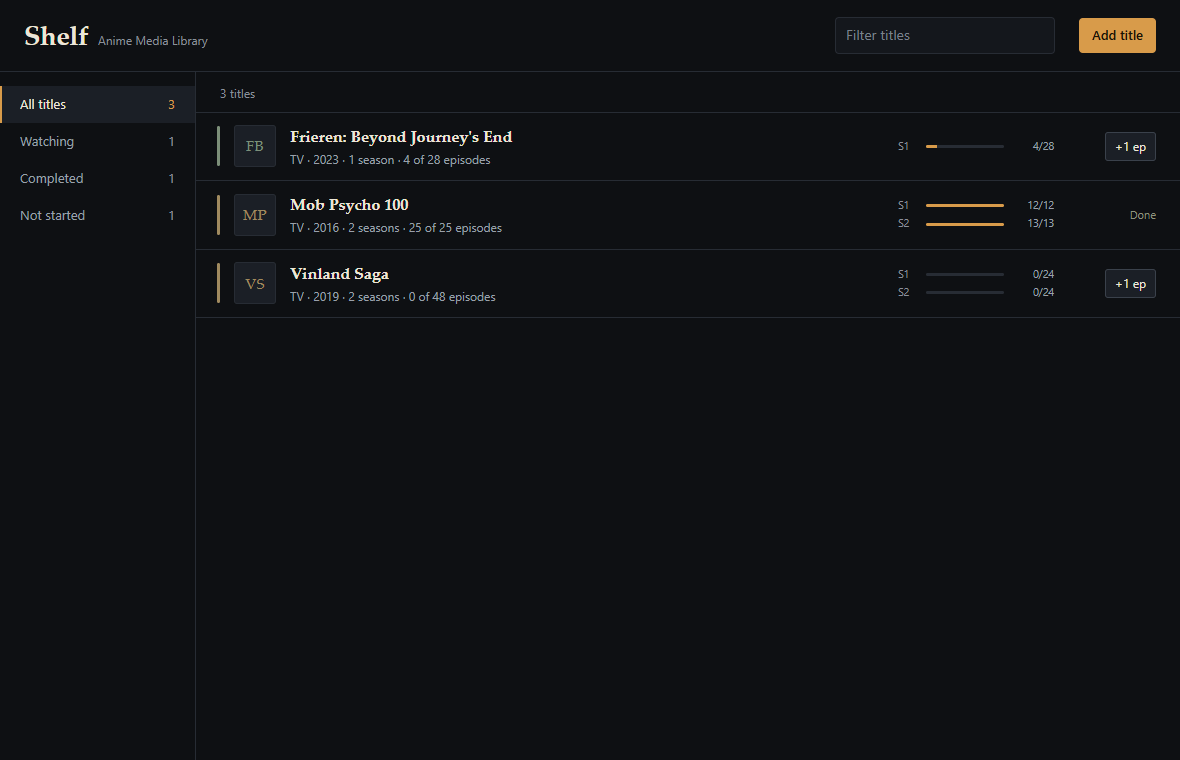
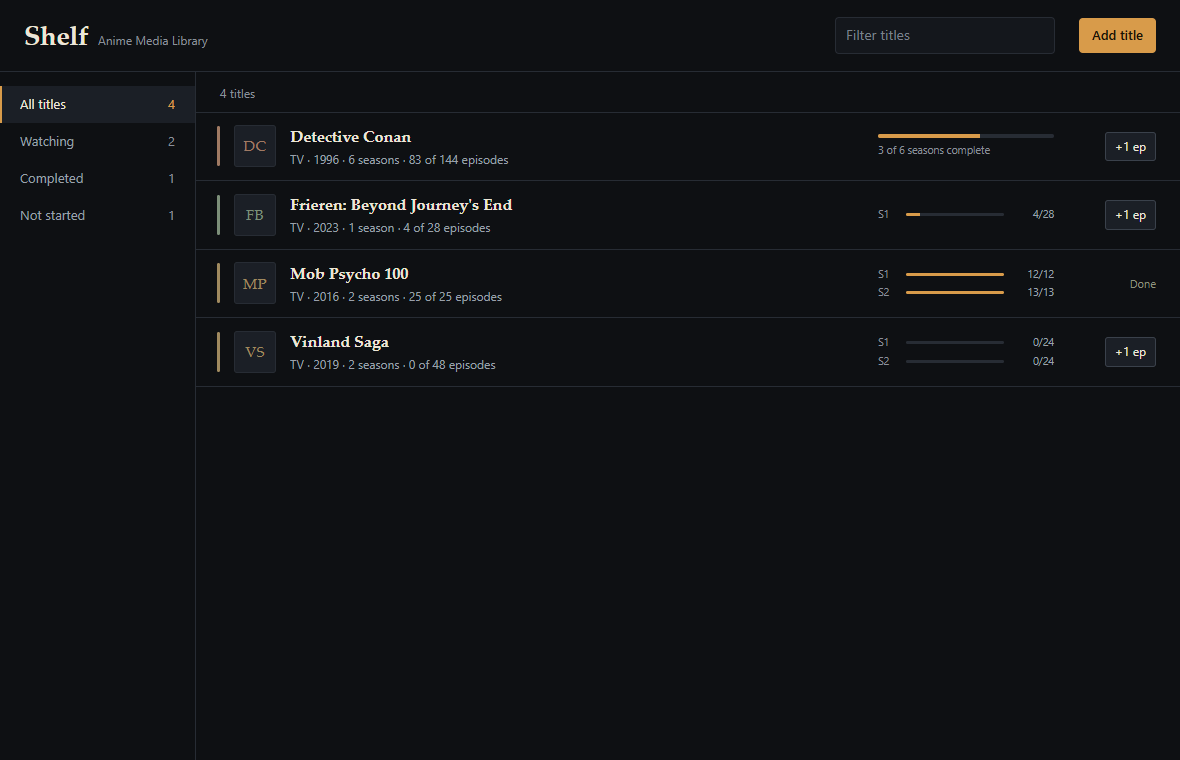
feat(catalog): collapse season detail above four seasons
Rows showed three strips and a plus N label, which said little about a twenty season show. Up to four seasons still render as strips; above that the row shows one aggregate bar and a completed season count, so every row stays the same height. The progress column is now a fixed width so blocks line up across rows.

diff --git a/src/Catalog.tsx b/src/Catalog.tsx
@@ -2,6 +2,7 @@ import {
   STATUS_LABEL,
   episodeTotal,
   episodeWatched,
+  isSeasonDone,
   monogram,
   nextUnfinished,
   spineColor,
@@ -78,6 +79,24 @@ function metaLine(anime: Anime): string {
   return parts.join(" · ");
 }
 
+/** Beyond a handful of seasons, one aggregate bar keeps every row the same height. */
+function SeasonSummary({ anime }: { anime: Anime }) {
+  const done = anime.seasons.filter(isSeasonDone).length;
+  const watched = episodeWatched(anime);
+  const total = episodeTotal(anime);
+  const share = total === 0 ? 0 : Math.round((watched / total) * 100);
+  return (
+    <span className="season-summary">
+      <span className="strip-track" aria-hidden="true">
+        <span className="strip-fill" style={{ width: `${share}%` }} />
+      </span>
+      <span className="season-summary-text">
+        {done} of {anime.seasons.length} seasons complete
+      </span>
+    </span>
+  );
+}
+
 export function CatalogList({
   library,
   visible,
@@ -133,7 +152,7 @@ export function CatalogList({
       </div>
       {visible.map((anime) => {
         const next = nextUnfinished(anime);
-        const shown = anime.seasons.slice(0, 3);
+        const detailed = anime.seasons.length > 0 && anime.seasons.length <= 4;
         return (
           <div
             key={anime.id}
@@ -167,15 +186,14 @@ export function CatalogList({
               <span className="row-meta">{metaLine(anime)}</span>
             </span>
             <span className="row-seasons">
-              {shown.map((season) => (
-                <SeasonStrip key={season.number} season={season} />
-              ))}
-              {anime.seasons.length > shown.length && (
-                <span className="more">+{anime.seasons.length - shown.length} more</span>
-              )}
               {anime.seasons.length === 0 && (
                 <span className="more">No seasons yet</span>
               )}
+              {detailed &&
+                anime.seasons.map((season) => (
+                  <SeasonStrip key={season.number} season={season} />
+                ))}
+              {anime.seasons.length > 4 && <SeasonSummary anime={anime} />}
             </span>
             <span className="row-action">
               {next ? (

diff --git a/src/styles.css b/src/styles.css
@@ -283,7 +283,8 @@ textarea::placeholder {
   display: flex;
   flex-direction: column;
   gap: 3px;
-  min-width: 156px;
+  width: 176px;
+  flex: none;
 }
 
 .strip {
@@ -320,6 +321,23 @@ textarea::placeholder {
 .more {
   font-size: 10.5px;
   color: var(--dim);
+}
+
+.season-summary {
+  display: flex;
+  flex-direction: column;
+  gap: 5px;
+  width: 100%;
+}
+
+.season-summary .strip-track {
+  height: 4px;
+}
+
+.season-summary-text {
+  font-size: 10.5px;
+  color: var(--dim);
+  font-variant-numeric: tabular-nums;
 }
 
 .row-action {

diff --git a/DESIGN.md b/DESIGN.md
@@ -59,6 +59,10 @@ cover source, and inventing posters would be fabricated content.
 - Centre: rows. Title and metadata left, season strips and the quick `+1` right.
 - Right: a 372 px edit panel, full height. It is a form, not a modal, so the shelf stays
   visible while editing.
+- Season detail on a row: up to four seasons render as individual strips. Above four, the
+  row swaps to one aggregate bar with a count line, so row height never grows with the
+  season count. Per-season editing stays in the panel, where a twenty season show is a
+  scroll rather than a tall card.
 
 Reason for a side panel over a modal: the task is comparing progress against the shelf, and
 a modal would hide the thing being edited. At widths under 1080 px the panel overlays,

diff --git a/README.md b/README.md
@@ -95,6 +95,8 @@ Checked in the running app on Windows (WebView2 155), not only in a browser:
   panel.
 - Delete asks for confirmation, then removes the title and its seasons.
 - Escape closes the detail panel.
+- A six season title renders as one aggregate bar instead of six strips, and every row
+  stayed 69 px tall with four titles on screen.
 - `pnpm tauri build` produced a working bundle, and the packaged executable opened the same
   library from the same database file.
 
